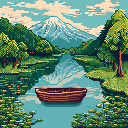
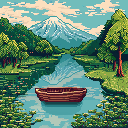
Got accept/deny working for friend requests. Fixed load time delay for fishing and mining & updated fishing pic.

Changed region(s): [[0.25, 0.5, 0.6875, 0.6875], [0.125, 0.7188, 0.5625, 1.0], [0.6562, 0.6562, 0.8125, 0.7812]]

diff --git a/webviews/components/Rooms.svelte b/webviews/components/Rooms.svelte
@@ -117,14 +117,14 @@
     //----------------CUSTOMIZE ROOM----------------
         //BACKGROUND INSTANTIATION
         let vanityBackground = new Background('vanityBackground', 0, 0, -20, () => {
-            if (vanityBackground.state === 'open'){
-                vanityBackground.queueState('slideBack')
-                vanityBackground.queueState('default')
-            }
-            else{
-                vanityBackground.queueState('slide')
-                vanityBackground.queueState('open')
-            }
+            // if (vanityBackground.state === 'open'){
+            //     vanityBackground.queueState('slideBack')
+            //     vanityBackground.queueState('default')
+            // }
+            // else{
+            //     vanityBackground.queueState('slide')
+            //     vanityBackground.queueState('open')
+            // }
         });
         //CUSTOMIZATION UI INSTANTIATION
         let hatArray = ["leaf", "marge", "partyDots", "partySpiral", "superSaiyan"]
@@ -373,8 +373,9 @@
             let inputUsername = inputBar.getUserText();
             tsvscode.postMessage({ type: 'sendFriendRequest', val: inputUsername });
         });
-    
-        function instantiateFriendRequests(friends, friendButton) {
+
+        //TODO: convert to buttonlist for easier refreshing and cleanliness 🧼 
+        function instantiateFriendRequests(friends, requestIds, friendButton) {
             let friendArray = [];
             const buttonHeight = 17;
                 
@@ -382,6 +383,7 @@
                 // Create the friend button
                 let friend = new friendButton(0, 15 + 16 + (buttonHeight * i), 0, friends[i],  () => {});
                 friend.hoverWithChildren = true;
+                friend.requestID = requestIds[i];
                 friend.onHover = () => {
                     friend.updateState('hovered');
                     friend.initializeButtons();
@@ -394,10 +396,10 @@
 
                 // Register child button parameters
                 const checkButton = new Button(0, 30, 1, 'checkButton', () => {
-                    console.log('Button was clicked!');
+                    tsvscode.postMessage({ type: 'handleFriendRequest', requestId: friend.requestID, action: 'accept' });
                 });
                 const rejectButton = new Button(0, 50, 1, 'rejectButton', () => {
-                    console.log('Button was clicked!');
+                    tsvscode.postMessage({ type: 'handleFriendRequest', requestId: friend.requestID, action: 'reject' });
                 });
 
                 friend.registerButtonParams([
@@ -417,33 +419,34 @@
         // INSTEAD OF THIS GET FRIENDS WITH API CALL
         let placeholderFriends = ["everlastingflame", "kitgore", "chinapoet"];
 
-        // INSTEAD OF THIS GET FRIEND REQUESTS WITH API CALL
-        let inbox = get(game).retrieveInbox()["friendRequests"]
+        //TODO: call this again on room load
+        let inbox = get(game).refreshInbox()["friendRequests"]
         let requests = Object.values(inbox);
 
-        // // Extract the 'fromUser' attribute from each object
+        // Extract the 'fromUser' attribute from each object
         let friendRequestUsernames = requests.map(item => item.fromUser);
-
-
-        // TABS FOR SOCIAL ROOM
+        // Extract the 'fromUId' attribute from each object
+        let friendRequestUids = requests.map(item => item.fromUid);
+        
         const socialTabs = ['Friends', 'Add'];
-        
-        // room header constructor would have tabs array passed in
-        // tabs array would have tab names and functions to switch rooms
 
-        
         const socialTabList = new textButtonList(socialTabs, [
             () => {get(game).setCurrentRoom('friendRoom')}, 
             () => {get(game).setCurrentRoom('requestRoom')}
         ], socialTabButton, 57, 15, -1, 15, 0, 5, "horizontal");
         
         //ROOM INSTANTIATION
-        let friendRoom = new Room('friendRoom');
+        let friendRoom = new Room('friendRoom', 
+            () => {
+                get(game).refreshInbox();
+                console.log("inbox refreshed?")
+            },
+        );
         let requestRoom = new Room('requestRoom');
 
         friendRoom.addObject(instantiateFriends(placeholderFriends, friendButton), backToMain, socialTabList);
 
-        requestRoom.addObject(...instantiateFriendRequests(friendRequestUsernames, friendButton), backToMain, socialTabList, 
+        requestRoom.addObject(...instantiateFriendRequests(friendRequestUsernames, friendRequestUids, friendButton), backToMain, socialTabList, 
                               inputBar, sendFriendRequestButton);
         
     //----------------INVENTORY ROOM----------------

diff --git a/functions/socialFunctions.js b/functions/socialFunctions.js
@@ -88,7 +88,7 @@ export const sendFriendRequest = functions.https.onRequest((req, res) => {
         // Logic to write the friend request to the recipient's inbox
         const inboxRef = admin.database().ref(`users/${recipientUid}/protected/inbox/friendRequests`);
         try {
-            await inboxRef.push({
+            await inboxRef.child(senderUid).set({
                 fromUid: senderUid,
                 fromUser: senderUsername,
                 type: 'friendRequest',
@@ -132,9 +132,6 @@ export const handleFriendRequest = functions.https.onRequest((req, res) => {
     }
 
     verifyToken(req, res, async () => {
-        console.log("req.user:", req.user);
-        console.log("req.body:", req.body);
-
         const senderUid = req.user.uid;
         const { requestId, action } = req.body;
         const idToken = req.headers.authorization?.split('Bearer ')[1];
@@ -146,10 +143,10 @@ export const handleFriendRequest = functions.https.onRequest((req, res) => {
             }
 
             // Check if the friend request exists
-            const senderInboxRef = admin.database().ref(`users/${senderUid}/protected/inbox`);
+            const senderInboxRef = admin.database().ref(`users/${senderUid}/protected/inbox/friendRequests`);
             const senderInboxSnapshot = await senderInboxRef.once('value');
             if (!senderInboxSnapshot.hasChild(requestId)) {
-                return res.status(404).send({success: false, message: 'Friend request not found'});
+                return res.status(404).send({success: false, message: senderInboxSnapshot});
             }
 
             if(action !== 'accept' && action !== 'reject') {
@@ -160,12 +157,13 @@ export const handleFriendRequest = functions.https.onRequest((req, res) => {
                 return res.status(200).send({ success: true, message: "Friend request rejected successfully." });
             }
             else if(action === 'accept') {
+                // Get the recipient's UID and username from the sender's inbox
                 const recipientUid = senderInboxSnapshot.child(requestId).val().fromUid;
                 const recipientUsername = senderInboxSnapshot.child(requestId).val().fromUser;
 
+                // Get the sender's username from the sender's public profile
                 const senderRef = admin.database().ref(`users/${senderUid}/public`);
                 const senderSnapshot = await senderRef.once('value');
-    
                 if (!senderSnapshot.exists()) {
                     return res.status(404).send({success: false, message:'Sender not found'});
                 }
@@ -173,6 +171,8 @@ export const handleFriendRequest = functions.https.onRequest((req, res) => {
 
                 const recipientFriendRef = admin.database().ref(`users/${recipientUid}/protected/friends/${senderUid}`);
                 const senderFriendRef = admin.database().ref(`users/${senderUid}/protected/friends/${recipientUid}`);
+                
+                // Add the sender to the recipient's friends list and vice versa
                 try {
                     await recipientFriendRef.set({
                         friendUsername: senderUsername,

diff --git a/src/SidebarProvider.ts b/src/SidebarProvider.ts
@@ -64,7 +64,6 @@ async function refreshToken(refreshToken: string, context: vscode.ExtensionConte
         await context.secrets.store("idToken", id_token);
 
         // sendFriendRequest(context, "kitgore");
-        retrieveInbox(context); 
 
         return { idToken: id_token, refreshToken: refresh_token };
     } catch (error) {
@@ -89,6 +88,37 @@ async function sendFriendRequest(context: vscode.ExtensionContext, recipientUser
         console.error('Error sending friend request:', error);
     }
 }
+
+async function handleFriendRequest(context: vscode.ExtensionContext, requestId: string, action: string) {
+    const functionUrl = 'https://us-central1-codagotchi.cloudfunctions.net/handleFriendRequest';
+    const idToken = await context.secrets.get("idToken");
+
+    try {
+        const response = await axios.post(functionUrl, { requestId, action }, {
+            headers: {
+                'Authorization': `Bearer ${idToken}`,
+                'Content-Type': 'application/json'
+            }
+        });
+        console.log(response.data.message);
+    } catch (error: unknown) {
+        if (axios.isAxiosError(error)) {
+            if (error.response) {
+                // Server responded with a status other than 200 range
+                console.error('Error response from server:', error.response.data.message);
+            } else if (error.request) {
+                // Request was made but no response was received
+                console.error('No response received:', error.request);
+            } else {
+                // Something happened in setting up the request that triggered an Error
+                console.error('Error setting up request:', error.message);
+            }
+        } else {
+            console.error('An unknown error occurred:', error);
+        }
+    }
+}
+
 
 async function retrieveInbox(context: vscode.ExtensionContext) {
     const functionUrl = 'https://us-central1-codagotchi.cloudfunctions.net/retrieveInbox';
@@ -443,6 +473,14 @@ export class SidebarProvider implements vscode.WebviewViewProvider {
                 }
                 case 'sendFriendRequest': {
                     sendFriendRequest(this.context, data.val);
+                    break;
+                }
+                case 'handleFriendRequest': {
+                    handleFriendRequest(this.context, data.requestId, data.action);
+                    break;
+                }
+                case 'retrieveInbox': {
+                    retrieveInbox(this.context);
                     break;
                 }
             }

diff --git a/webviews/components/Game.svelte b/webviews/components/Game.svelte
@@ -19,7 +19,7 @@
             this.handleInactivity = this.handleInactivity.bind(this);
             this.resetActivityTimeout = this.resetActivityTimeout.bind(this);
             this.timeoutHandler = setTimeout(this.handleInactivity, this.timeoutTime);
-            this.isActive = true;
+            this.isActive = false;
             this.inbox;
         }
 
@@ -114,6 +114,11 @@
         }
 
         retrieveInbox() {
+            tsvscode.postMessage({ type: 'retrieveInbox' });
+        }
+
+        // for refreshing inbox after receiving new data since its async (should could be done cleaner, but this works for now)
+        refreshInbox() {
             this.inbox = new Inbox(this.getLocalState().inbox || {});
             return this.inbox
         }
